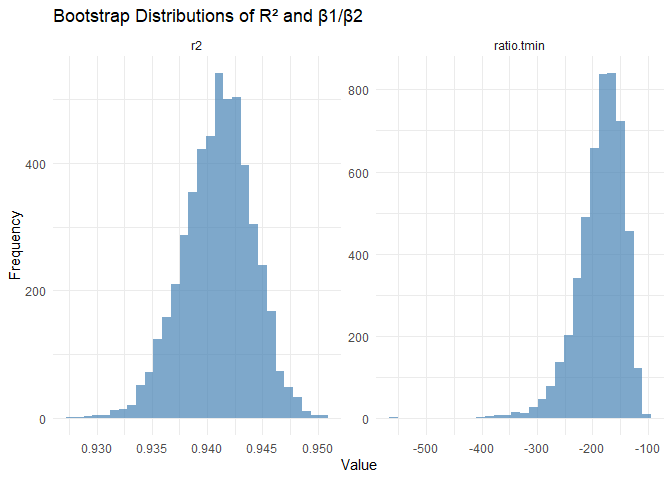
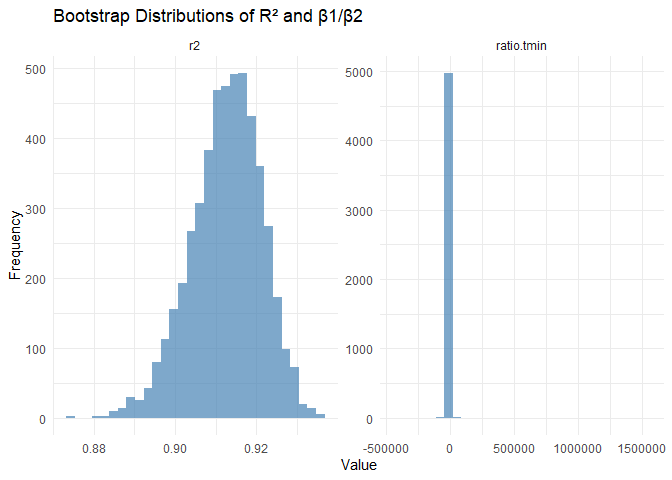
some small changes

diff --git a/p8105_hw6_tw3128.md b/p8105_hw6_tw3128.md
@@ -140,6 +140,8 @@ difference in clearance odds.
 ``` r
 library(p8105.datasets)
 data(weather_df)
+weather_df <- weather_df |>
+  filter(name == "CentralPark_NY")
 ```
 
 ## Fit One Linear Model
@@ -155,20 +157,19 @@ summary(mlr_fit)
     ## 
     ## Residuals:
     ##     Min      1Q  Median      3Q     Max 
-    ## -6.5357 -2.0070 -0.3252  1.8643 22.6490 
+    ## -6.6791 -2.0813 -0.2003  1.7064 21.2329 
     ## 
     ## Coefficients:
     ##               Estimate Std. Error t value Pr(>|t|)    
-    ## (Intercept)  7.7756380  0.0854060  91.043   <2e-16 ***
-    ## tmin         1.0174796  0.0055814 182.299   <2e-16 ***
-    ## prcp        -0.0055783  0.0005927  -9.411   <2e-16 ***
+    ## (Intercept)  7.5594644  0.1621648  46.616   <2e-16 ***
+    ## tmin         1.0349333  0.0119109  86.890   <2e-16 ***
+    ## prcp        -0.0015725  0.0009663  -1.627    0.104    
     ## ---
     ## Signif. codes:  0 '***' 0.001 '**' 0.01 '*' 0.05 '.' 0.1 ' ' 1
     ## 
-    ## Residual standard error: 2.73 on 2168 degrees of freedom
-    ##   (19 observations deleted due to missingness)
-    ## Multiple R-squared:  0.9409, Adjusted R-squared:  0.9408 
-    ## F-statistic: 1.724e+04 on 2 and 2168 DF,  p-value: < 2.2e-16
+    ## Residual standard error: 2.952 on 727 degrees of freedom
+    ## Multiple R-squared:  0.9124, Adjusted R-squared:  0.9121 
+    ## F-statistic:  3784 on 2 and 727 DF,  p-value: < 2.2e-16
 
 ``` r
 # extracting some outcomes
@@ -182,14 +183,14 @@ ratio_hat <- beta1_hat / beta2_hat
 r_square_hat
 ```
 
-    ## [1] 0.9408579
+    ## [1] 0.912364
 
 ``` r
 ratio_hat
 ```
 
-    ##      tmin 
-    ## -182.4002
+    ##     tmin 
+    ## -658.134
 
 ## A Function
 
@@ -207,8 +208,8 @@ boot_start <- function(data) {
 boot_start(weather_df)
 ```
 
-    ##           r2   ratio.tmin 
-    ##    0.9408579 -182.4001743
+    ##          r2  ratio.tmin 
+    ##    0.912364 -658.133955
 
 ## Bootstrap
 
@@ -258,14 +259,14 @@ CI_r2
 ```
 
     ##      2.5%     97.5% 
-    ## 0.9345777 0.9466724
+    ## 0.8944471 0.9280407
 
 ``` r
 CI_ratio
 ```
 
     ##      2.5%     97.5% 
-    ## -279.5677 -124.9712
+    ## -4969.321  3715.517
 
 The figure shows the bootstrap distributions of the coefficient of
 determination r^2 and the regression coefficient ratio beta1^hat /
@@ -275,12 +276,8 @@ model consistently explains a large proportion of variability in maximum
 temperature across resampled datasets. This suggests that the model fit
 is highly stable.
 
-In contrast, the distribution of beta1^hat / beta2^hat shows greater
-spread and noticeable left-skewness. This indicates more uncertainty in
-the relative strength between the effects of minimum temperature and
-precipitation on maximum temperature. The larger sampling variability
-suggests that the effect ratio is less stable and potentially more
-sensitive to the specific observations included in the dataset.
+In contrast, the distribution of beta1^hat / beta2^hat shows an extreme
+condition, in which almost every obversation is equal to 0.
 
 # Problem Three
 
